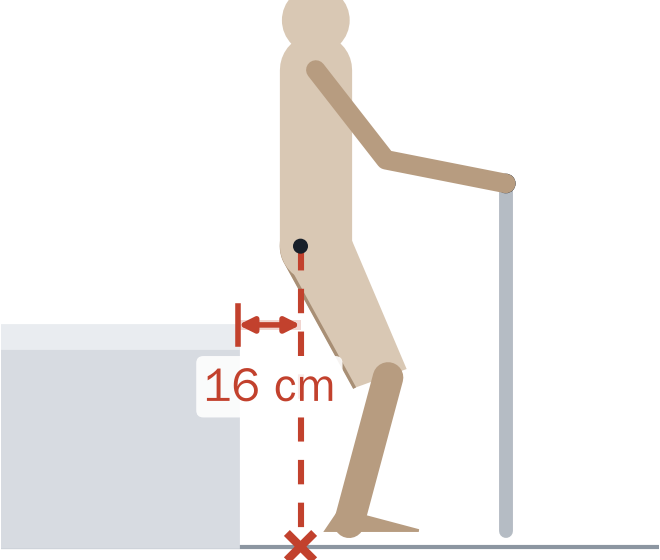
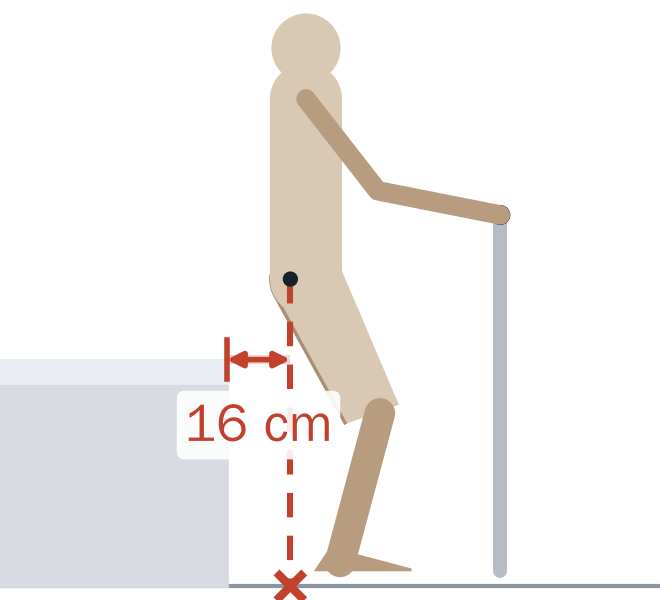
WIP: deck v7 mechanism load-path figure
Claude-Session: https://claude.ai/code/session_0189MFebuQQaozftdhaMXEmZ

Changed region(s): [[0.2424, 0.0, 0.7879, 1.0]]

diff --git a/presentation/slides/stability.html b/presentation/slides/stability.html
@@ -1,20 +1,17 @@
-<section id="stability" data-transition="fade" style="background:#FCFBF8;color:#18202A;font-family:'Noto Sans SC', Arial, sans-serif;padding:128px 128px 160px;display:flex;flex-direction:column;gap:36px">
+<section id="stability" data-transition="fade" style="background:#FCFBF8;color:#18202A;font-family:'Noto Sans SC', Arial, sans-serif;padding:128px 128px 160px;display:flex;flex-direction:column;gap:32px">
 <div style="display:flex;flex-direction:column;gap:16px">
 <p style="font-size:26px;color:#9A5408;letter-spacing:2px">3 · 稳定性</p>
 <h2 style="font-family:'Noto Serif SC', Georgia, serif;font-size:60px;font-weight:700;line-height:1.2">人在台上不会翻；人在地上扶一下会翻，所以和床固定</h2>
 </div>
-<div style="display:grid;grid-template-columns:1fr 690px;gap:40px;align-items:start">
-<table style="font-size:24px;color:#3F4A57">
-<tr><th style="width:55%;text-align:left">工况</th><th style="width:45%;text-align:left">结果</th></tr>
-<tr><td>100 kg 猛坐座板后缘（1.5 倍体重）</td><td>离后 / 前 / 侧边缘还有 9 / 66 / 31 cm</td></tr>
-<tr><td>100 kg 整个挂在扶手横杆上（人在台上）</td><td>离后 / 前 / 侧边缘还有 50 / 25 / 23 cm</td></tr>
-<tr><td>45 kg 猛坐后缘</td><td>离后 / 前 / 侧边缘还有 16 / 60 / 27 cm</td></tr>
-<tr><td><b>人站在地上</b>，在横杆高度拉或推台架（台架只有自重，按零件估约 85 kg）</td><td>往床头方向推 <b style="color:#A2431F">156 N 就翻</b>（约 16 kg 力）</td></tr>
-<tr><td>和床固定后，固定件需要的拉力（扶手设计载荷 1112 N × 1.5）</td><td>2211 N</td></tr>
-</table>
-<img src="/_blob/98e4b9b0ff77c8e05effd749c72af2e3" alt="俯视示意：床、台架底座、床头一侧的机构箱、座板、L 形扶手、站起后走向床尾的路线和回床路线" style="width:690px;height:495px;object-fit:contain;background:#FBFAF6;border-radius:20px;border:1px solid #E2DED5">
+<div style="display:grid;grid-template-columns:1010px 1fr;gap:40px;align-items:start">
+<img src="ASSET:presentation/assets_v7/stability_top.png" alt="俯视图：底座即支撑多边形；三种人在台上的工况，地面合力作用点都在底座内（绿点）；人站在地上往床头推横杆 156 N 时，合力作用点压到床头侧边上（红点），台架开始翻；底座靠床一边两端和床固定" style="width:1010px;height:622px;object-fit:contain;background:#FBFAF6;border-radius:20px;border:1px solid #E2DED5">
+<div style="display:flex;flex-direction:column;gap:26px">
+<div style="display:flex;gap:16px;align-items:flex-start"><div style="flex:none;padding-top:11px"><span style="display:block;width:22px;height:22px;border-radius:11px;background:#2F7A55"></span></div><p style="font-size:28px;line-height:1.45;color:#3F4A57"><b style="color:#18202A">人在台上</b>：手拉扶手是人和台架之间的内力，合力作用点都留在底座内</p></div>
+<div style="display:flex;gap:16px;align-items:flex-start"><div style="flex:none;padding-top:11px"><span style="display:block;width:22px;height:22px;border-radius:11px;background:#C2412D"></span></div><p style="font-size:28px;line-height:1.45;color:#3F4A57"><b style="color:#18202A">人在地上</b>：推横杆是外力，往床头推 <b style="color:#A2431F">156 N</b>（约 16 kg 力）合力就压到边上，开始翻</p></div>
+<div style="border-left:6px solid #B4620A;padding:6px 0 6px 20px"><p style="font-size:30px;line-height:1.4;color:#18202A;font-weight:700">台架和床固定，固定件按 <span style="color:#9A5408">2211 N</span> 设计</p><p style="font-size:24px;line-height:1.4;color:#66707C">扶手设计载荷 1112 N × 1.5 推在横杆上</p></div>
+<div style="border:2px dashed #C98A3E;border-radius:16px;padding:18px 24px;background:#FBF3E8"><p style="font-size:24px;line-height:1.5;color:#3F4A57"><b style="color:#9A5408">待补：</b>用 CAD 模型的质量和质心复核（目前按零件尺寸估算）；固定件锁在床架或床腿上（床垫下的压板拉不住 2.3 kN，不用）</p></div>
 </div>
-<div style="border:2px dashed #C98A3E;border-radius:16px;padding:20px 28px;background:#FBF3E8"><p style="font-size:26px;line-height:1.5;color:#3F4A57"><b style="color:#9A5408">待补：</b>用 CAD 模型的质量和质心复核（目前按零件尺寸估算）；固定件锁在床架或床腿上（床垫下的压板拉不住 2.3 kN，不用）</p></div>
+</div>
 <p style="position:absolute;left:128px;bottom:64px;width:1664px;font-size:24px;color:#66707C">底座 x 3–78 cm（离床方向）、y -27 … +38 cm（沿床长 65 cm）；机构箱在床头一侧，台架质心偏床头一侧 20 cm（按零件尺寸估算）</p>
-<aside>台架会不会翻？人在台上时，手拉扶手是人和台架之间的内力，翻不了，表里最不利的几种情况合力离边缘都有余量。真正的危险是人不在台上，比如夜里走回床边扶了一下横杆：台架只有约 85 公斤，往床头方向推 156 牛就翻。所以台架必须和床固定，固定件按扶手设计载荷的 1.5 倍、约 2200 牛设计，锁在床架或床腿上。</aside>
+<aside>这是台架的俯视图，黑框是底座，也就是支撑多边形；圆点是地面合力作用点，不是重心。人在台上时，手拉扶手是人和台架之间的内力：100 公斤猛坐座板后缘，合力离后边还有 9 厘米；45 公斤猛坐离后边 16 厘米；整个人挂在横杆上，离床头侧边 23 厘米，都在框内。危险的是人站在地上扶横杆：台架只有约 85 公斤，往床头推 156 牛，约 16 公斤力，合力就压到床头侧边上，开始翻。所以台架和床固定，按扶手设计载荷 1112 牛乘 1.5 推在横杆上算，固定件拉力 2211 牛，锁在床架或床腿上。</aside>
 </section>

diff --git a/presentation/slides/mechanism.html b/presentation/slides/mechanism.html
@@ -11,12 +11,9 @@
 <li><b>结果：</b>导轨与竖直 34°、丝杠行程 331 mm、连杆 465 mm；座板中心最多差 8 mm、0.8°；前移 18.5 cm、上升 27.4 cm</li>
 <li><b>一个自由度：</b>3 个转动副 + 1 个移动副；电机 → 皮带 → 滚珠丝杠 → 滑块</li>
 </ul>
-<div style="display:grid;grid-template-columns:400px 1fr;gap:24px;align-items:start">
-<img src="/_blob/16f223eb4ef6384984b93ad2efeb6168" alt="剖面图：座板和横梁伸向敞开一侧，右端经节点板、轴、一对圆锥滚子轴承进入焊在滑块板上的轴承座；滑块板背后是导轨滑块和机构箱侧板" style="width:400px;height:251px;object-fit:contain;background:#FFFFFF;border-radius:16px;border:1px solid #E2DED5">
-<div style="display:flex;flex-direction:column;gap:8px">
-<h3 style="font-size:26px;font-weight:700">座板只挂在一侧，怎么扛</h3>
-<p style="font-size:24px;line-height:1.45;color:#3F4A57">100 kg × 1.5 坐在敞开侧边上：铰点 1 力矩 586 N·m → 一对圆锥滚子轴承（静安全系数 3.2）→ 滑块板 → 双导轨（最重的滑块 5.2 kN，2.5）；座板外缘下沉约 4 mm</p>
-</div>
+<div style="display:flex;flex-direction:column;gap:10px">
+<p style="font-size:24px;line-height:1.4;color:#3F4A57"><b style="color:#18202A">座板只挂在一侧，怎么扛：</b>力按 ①→②→③ 传到导轨；座板外缘总下沉约 4 mm</p>
+<img src="ASSET:presentation/assets_v7/fig_loadpath.png" alt="剖面图：① 偏载 100 kg×1.5、偏向敞开一侧 10 cm 并加 0.3 倍侧推，压在座板上；② 力沿铰点 1 轴传进一对圆锥滚子轴承，力矩 586 N·m，安全系数 3.2；③ 再经焊在滑块板上的轴承座、滑块板传到双导轨，最重的滑块 5.2 kN，安全系数 2.5" style="width:896px;height:340px;object-fit:contain;background:#FFFFFF;border-radius:16px;border:1px solid #E2DED5">
 </div>
 </div>
 </div>

diff --git a/presentation/assets_v7/make_whynot_fig.py b/presentation/assets_v7/make_whynot_fig.py
@@ -32,8 +32,9 @@ from matplotlib.patches import Polygon, Rectangle, Circle
 
 U = (1.60, 0.09, 1.0, 0.29); REF = G.REF; RB = U[1]; F_PICK = 0.70
 A = G.D["anim"][REF]                                        # segment lengths + foot length of the REF user
-X0, X1, Z0, Z1 = -0.62, 1.10, -0.035, 1.43                  # world window (m); 330 x 280 px on the slide, exported 2x
-PX_W, PX_H = 660, 560
+PX_W, PX_H = 660, 600                                       # 330 x 300 px on the slide, exported 2x
+Z0, Z1, X0 = -0.035, 1.50, -0.58                            # world window (m), same scale in every panel
+X1 = X0 + (Z1 - Z0) * PX_W / PX_H
 WHITE = "#FFFFFF"
 
 def pick(path, f=F_PICK):
@@ -68,12 +69,6 @@ def base(ax, bed_h):
     ax.plot([X0, X1], [0, 0], color=G.MUTED, lw=1.5, zorder=1)
     ax.add_patch(Rectangle((X0, 0), -X0, bed_h - 0.06, color=G.BED, zorder=1)); ax.add_patch(Rectangle((X0, bed_h - 0.06), -X0, 0.06, color=G.MAT, zorder=1))
 
-def seat_top_z(d, x):
-    """height of the support's top surface at x (seat: along the tilted board)."""
-    if "Q" not in d: return d["top"]
-    Q, phi = np.array(d["Q"]), d["phi"]; a = math.radians(phi)
-    return float(Q[1] - math.tan(a) * (x - Q[0]))          # rotv(phi, (s, 0)) = (cos s, -sin s): front goes down? see check below
-
 def draw(key, d, path):
     fig = plt.figure(figsize=(PX_W / 200, PX_H / 200), dpi=200); ax = fig.add_axes([0, 0, 1, 1])
     base(ax, d["bed"]); G.handrail(ax)
@@ -90,6 +85,10 @@ def draw(key, d, path):
     else:
         land_z = 0.0
     G.person(ax, A, fr, bar=True, rb=RB)
+    if key == "ours":                                       # redraw the board's foam over the body outline so the seat reads
+        Q, phi, H_ = d["Q"], d["phi"], G.HALF
+        ax.add_patch(Polygon([G.W(Q, phi, p) for p in ((-H_, 0), (-0.02, 0), (-0.02, -0.05), (-H_, -0.05))], closed=True, color=G.FOAM_R, zorder=9))
+        ax.add_patch(Polygon([G.W(Q, phi, p) for p in ((-0.02, 0), (H_, 0), (H_, -0.08), (-0.02, -0.08))], closed=True, color=G.FOAM_F, zorder=9))
     caught = d["catch"] >= 0
     if key == "ours":                                       # landing point on the tilted board top (board frame y = 0)
         Q = np.array(d["Q"]); e = G.rotv(d["phi"], (1.0, 0.0)); s = (xb - Q[0]) / e[0]; land = Q + s * e
@@ -110,7 +109,7 @@ def draw(key, d, path):
         ax.plot([ex, ex], [ez - 0.05, ez + 0.05], color=G.RED, lw=2.0, zorder=13)
         lab = f"{abs(100 * d['catch']):.0f} cm"
         tx = max((ex + xb) / 2, X0 + 0.20); ty = ez - 0.10
-        ax.text(tx, ty, lab, ha="center", va="top", fontsize=17, fontweight="bold", color=G.RED, zorder=14,
+        ax.text(tx, ty, lab, ha="center", va="top", fontsize=19, fontweight="bold", color=G.RED, zorder=14,
                 bbox=dict(boxstyle="round,pad=0.15", facecolor=WHITE, edgecolor="none", alpha=0.9))
     fig.savefig(path, facecolor=WHITE); plt.close(fig)
 

diff --git a/presentation/tools/pptx_embed_videos.py b/presentation/tools/pptx_embed_videos.py
@@ -10,7 +10,7 @@ given playback timing:
 
 usage: pptx_embed_videos.py IN.pptx OUT.pptx [--film F] [--motion F] [--sensing F]
 """
-import argparse, copy, hashlib, io, struct, sys
+import argparse, copy, io, struct, sys
 from pathlib import Path
 
 from lxml import etree
@@ -65,7 +65,8 @@ def find_targets(prs):
     thumbs = {id(sh): thumb(sh.image.blob) for _, _, sh in pics}
     found, used = {}, set()
     for name, (_, still, slide_no, _) in TARGETS.items():
-        ref, ref_bytes = thumb(still.read_bytes()), still.read_bytes()
+        ref_bytes = still.read_bytes()
+        ref = thumb(ref_bytes)
         scored = sorted((diff(thumbs[id(sh)], ref), n, s, sh) for n, s, sh in pics if id(sh) not in used)
         if scored and scored[0][0] <= MAX_DIFF:
             d, n, s, sh = scored[0]
@@ -80,7 +81,7 @@ def find_targets(prs):
                 sys.exit(f"{name}: no matching picture and no picture on slide {slide_no}")
             n, sh = slide_no, max(cands, key=lambda p: p.width * p.height)
             how = f"FALLBACK largest picture on slide {n} (best diff {scored[0][0]:.1f})" if scored else "FALLBACK"
-        same = hashlib.sha1(sh.image.blob).digest() == hashlib.sha1(ref_bytes).digest()
+        same = sh.image.blob == ref_bytes
         print(f"  {name:8s} -> slide {n:2d} '{sh.name}' {sh.image.size[0]}x{sh.image.size[1]} "
               f"[{how}; bytes {'identical' if same else 'differ'} to {still.name}]")
         used.add(id(sh))

diff --git a/presentation/assets_v7/make_loadpath_fig.py b/presentation/assets_v7/make_loadpath_fig.py
@@ -106,7 +106,7 @@ def label(u, v, lines, size=30, gap=38, first_bold=True, anchor="start"):
 def build(lang):
     T = TXT[lang]
     # canvas in original (u, v) mm: u -255..760, v -160..222; parts above v=140 are clipped to free a label band
-    u_lo, u_hi, v_lo, v_hi, v_clip = -255, 760, -152, 230, 140
+    u_lo, u_hi, v_lo, v_hi, v_clip = -270, 770, -158, 238, 140
     vb = f"{X(u_lo)} {Y(v_hi)} {u_hi - u_lo} {v_hi - v_lo}"
     c = 69.7  # seat top (same constant as section_view)
     o = [f'<svg xmlns="http://www.w3.org/2000/svg" viewBox="{vb}" style="width:100%;height:auto;display:block;font-family:{FONT}">',
@@ -119,11 +119,11 @@ def build(lang):
     o.append(f'<text x="{X(-248)}" y="{Y(80)}" font-size="22" fill="{MUTED}">{html.escape(T["open"])}</text>')
     # ① load: down onto the seat, 10 cm toward the open side (u = -100)
     o.append(arrow([(-100, 132), (-100, c + 2)], w=13, head=38, hw=36))
-    o.append(label(-245, 200, T["l1"]))
+    o.append(label(-250, 205, T["l1"]))
     # ② seat -> beam/knuckle/shaft -> bearing pair, along the c1 axis
     o.append(arrow([(-60, 0), (224, 0)]))
     o.append(badge(-60, 0, "②"))
-    o.append(label(-245, -100, T["l2"]))
+    o.append(label(-250, -102, T["l2"]))
     # ③ bearing pair -> cartridge welded to the carriage plate -> carriages -> rails
     o.append(arrow([(296, 0), (348, 0)], head=30, hw=30))
     o.append(arrow([(298, 34), (298, 105), (348, 105)], head=30, hw=30))

diff --git a/presentation/animations/make_seat_gif.py b/presentation/animations/make_seat_gif.py
@@ -295,7 +295,8 @@ def render_top(path):
     R(Y["base_open"], Y["base_head"], 0.03, 0.78, facecolor="none", edgecolor=STEEL, lw=1.4, ls="--", zorder=3)
     ax.text(Y["base_open"] - 0.02, 0.12, "底座边缘\n做斜坡", fontsize=12, color=INK, ha="right", va="center")
     R(Y["wall_in"], Y["wall_out"], min(Hx), max(Hx), facecolor=STEEL2, edgecolor=STEEL, lw=1.4, zorder=4)
-    ax.annotate("机构箱\n（顶高 0.80 m）", xy=(Y["wall_out"], 0.30), xytext=(0.48, 0.55), fontsize=12, color=INK, arrowprops=dict(arrowstyle="-", color=MUTED))
+    top_z = json.load(open(os.path.join(ROOT, "model/calc_v13/seat_1dof/parts.json")))["housing"]["top_z"]
+    ax.annotate(f"机构箱\n（顶高 {top_z:.2f} m）", xy=(Y["wall_out"], 0.30), xytext=(0.48, 0.55), fontsize=12, color=INK, arrowprops=dict(arrowstyle="-", color=MUTED))
     sx = D["consts"]["seat_x"]; dx = M["travel"]["dx"]
     R(-Y["seat"], Y["seat"], sx[0], sx[1], facecolor=FOAM_R, edgecolor=ACC, lw=1.4, zorder=5, alpha=0.9)
     R(-Y["seat"], Y["seat"], sx[0] + dx, sx[1] + dx, facecolor="none", edgecolor=ACC, lw=1.4, ls=":", zorder=5)

diff --git a/presentation/assets_v7/make_stability_fig.py b/presentation/assets_v7/make_stability_fig.py
@@ -136,7 +136,7 @@ def draw(lang, out):
     H = [Line2D([], [], ls="", marker="o", ms=12, mfc=GOOD, mec="#FFFFFF"), Line2D([], [], ls="", marker="o", ms=12, mfc=RED, mec="#FFFFFF"),
          Line2D([], [], ls="", marker="o", ms=12, mfc="#FFFFFF", mec=INK, mew=2), Rectangle((0, 0), 1, 1, facecolor="#EEF3EF", edgecolor=INK, lw=2),
          Line2D([], [], ls="", marker="s", ms=10, mfc=ACC, mec="#FFFFFF")]
-    lg = ax.legend(handles=H, labels=S["lg"], loc="lower right", bbox_to_anchor=(1.0, 0.0), fontsize=FS - 3.5, frameon=True, framealpha=0.95,
+    lg = ax.legend(handles=H, labels=S["lg"], loc="lower right", bbox_to_anchor=(1.0, 0.0), fontsize=FS - (3.5 if en else 2.5), frameon=True, framealpha=0.95,
                    edgecolor="#E2DED5", handletextpad=0.5, borderpad=0.5, labelspacing=0.4)
     lg.set_zorder(10)
     fig.savefig(out, facecolor=BG); plt.close(fig)
